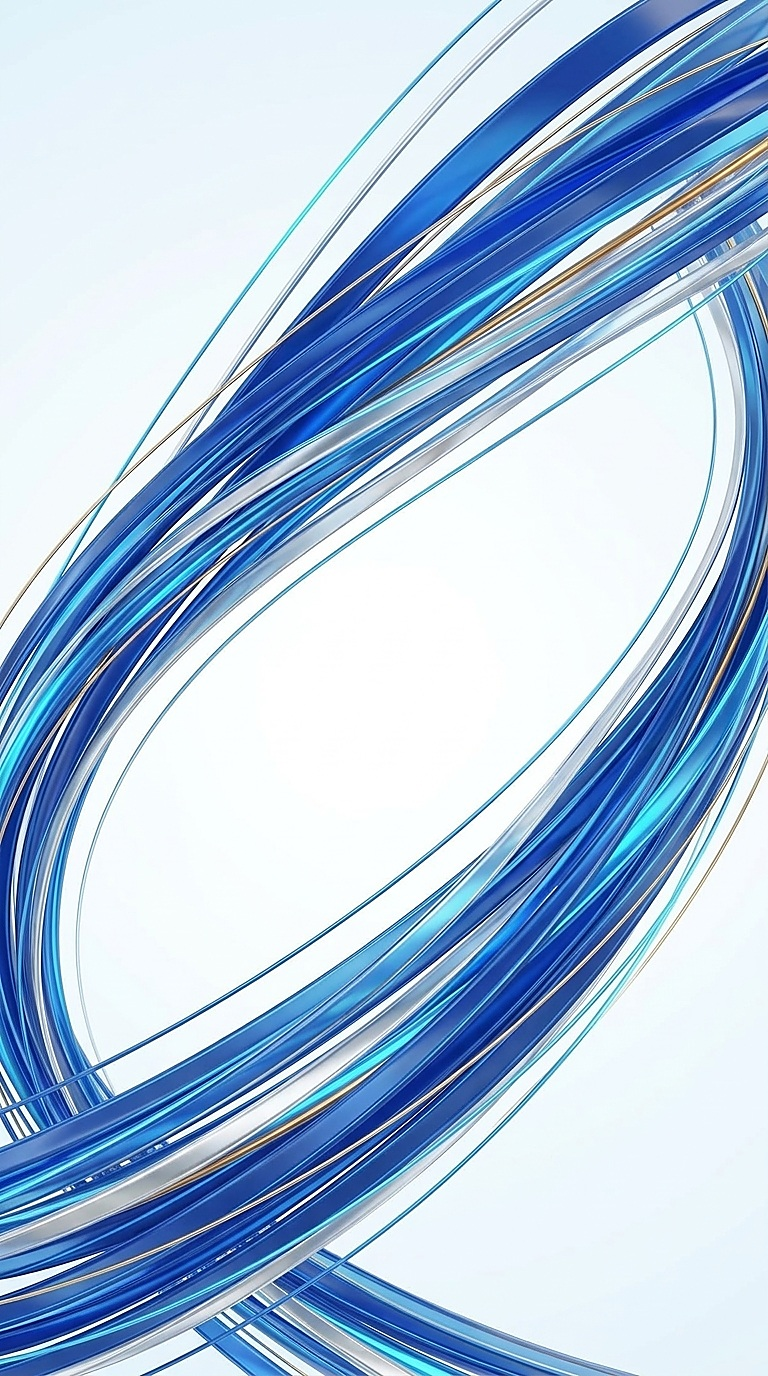
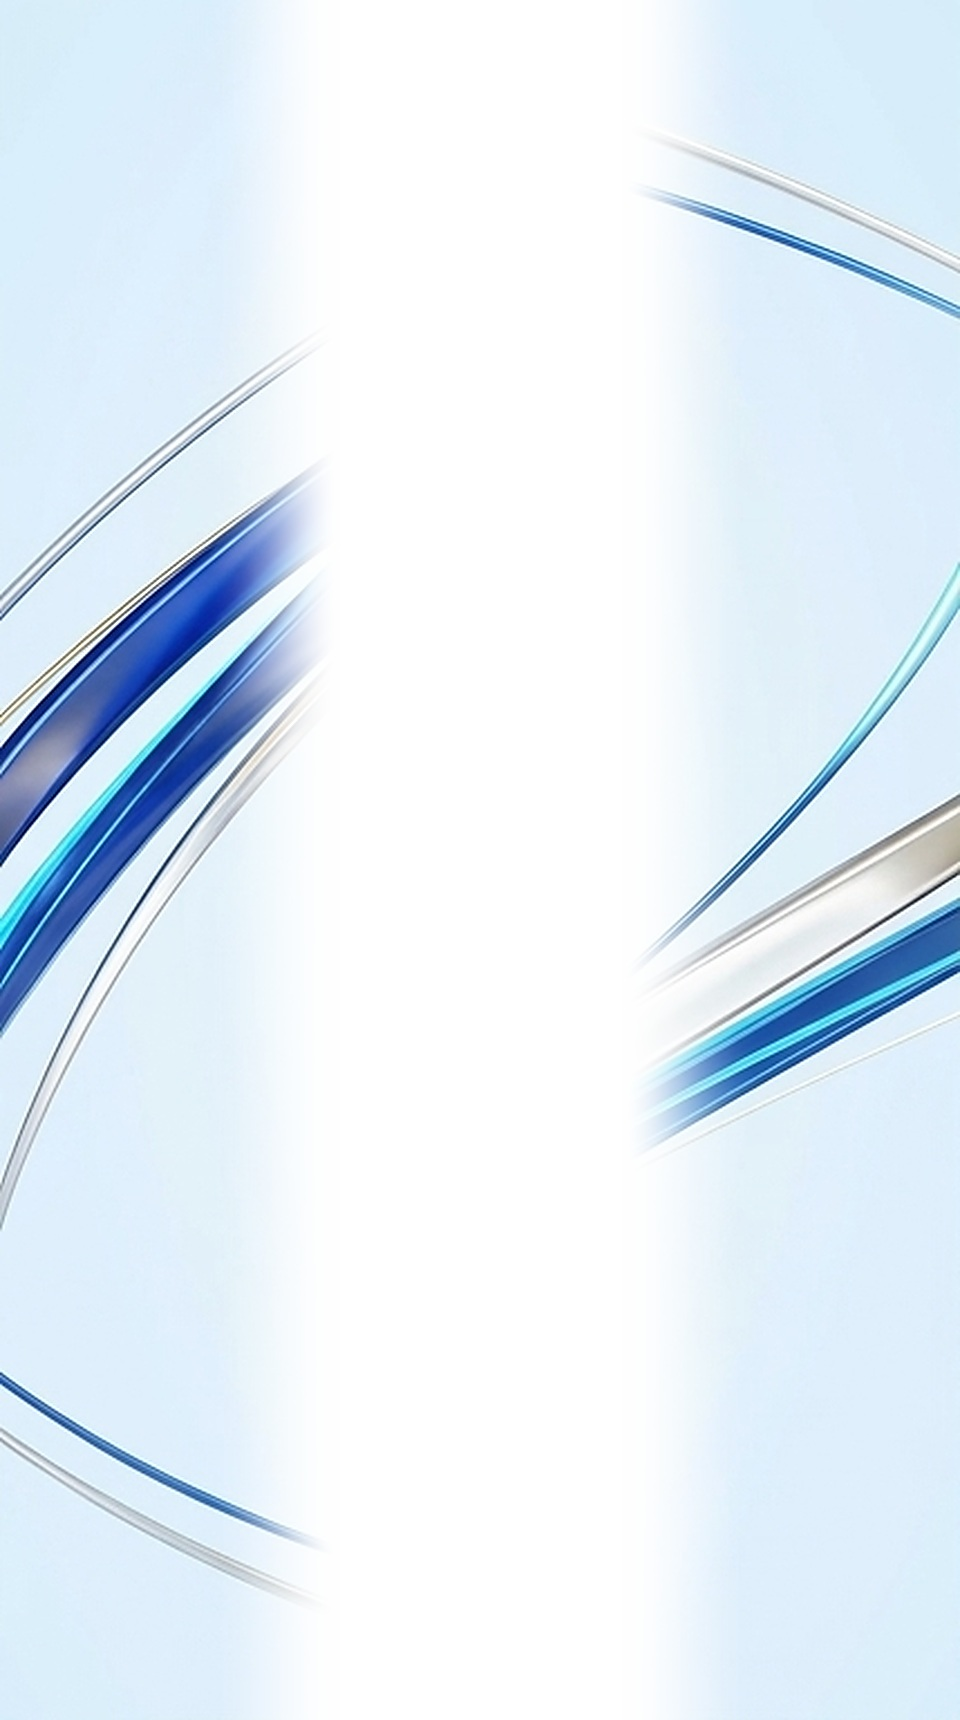
feat(bg): keep crystal ribbons strictly on sides for mobile, eliminating middle oval loop and white space

diff --git a/src/components/GraphicBackground.css b/src/components/GraphicBackground.css
@@ -25,24 +25,7 @@
   user-select: none;
 }
 
-/* 1. Precision Cyber Blueprint Grid & Coordinate Matrix */
-.bg-blueprint-grid {
-  position: absolute;
-  inset: 0;
-  width: 100%;
-  height: 100%;
-  pointer-events: none;
-  background-image: 
-    radial-gradient(circle at center, rgba(0, 87, 217, 0.08) 1.2px, transparent 1.2px),
-    linear-gradient(to right, rgba(0, 87, 217, 0.02) 1px, transparent 1px),
-    linear-gradient(to bottom, rgba(0, 87, 217, 0.02) 1px, transparent 1px);
-  background-size: 48px 48px, 48px 48px, 48px 48px;
-  mask-image: radial-gradient(ellipse at 50% 40%, black 45%, transparent 88%);
-  -webkit-mask-image: radial-gradient(ellipse at 50% 40%, black 45%, transparent 88%);
-  opacity: 0.9;
-}
-
-/* 2. Dynamic Moving Ambient Aurora Light Pools */
+/* 1. Dynamic Moving Ambient Aurora Light Pools (Corner Framing) */
 .bg-motion-aurora {
   position: absolute;
   border-radius: 50%;
@@ -92,30 +75,7 @@
   100% { transform: translate3d(5vw, -3vh, 0) scale(0.92); }
 }
 
-@keyframes auroraFlowCenter {
-  0% { transform: translate3d(0, 0, 0) scale(1); }
-  50% { transform: translate3d(5vw, -4vh, 0) scale(1.15); }
-  100% { transform: translate3d(-4vw, 3vh, 0) scale(0.92); }
-}
-
-/* 3. Interactive Volumetric Cursor Glow Spotlight */
-.bg-interactive-spotlight {
-  position: absolute;
-  top: 0;
-  left: 0;
-  width: 720px;
-  height: 720px;
-  border-radius: 50%;
-  background: radial-gradient(circle, rgba(0, 140, 255, 0.11) 0%, rgba(0, 87, 217, 0.035) 45%, transparent 70%);
-  transform: translate3d(calc(var(--spot-x, 50vw) - 360px), calc(var(--spot-y, 35vh) - 360px), 0);
-  pointer-events: none;
-  filter: blur(40px);
-  will-change: transform;
-  opacity: 0.95;
-  transition: opacity 0.3s ease;
-}
-
-/* 4. Elegant Geometric Aerospace Orbital Rings */
+/* 2. Elegant Geometric Aerospace Orbital Rings strictly on corner sides */
 .bg-orbital-ring {
   position: absolute;
   border-radius: 50%;
@@ -261,11 +221,6 @@
    8. MOBILE RESPONSIVE OPTIMIZATIONS — NEAR & PROMINENT VISIBILITY
    ============================================================ */
 @media (max-width: 768px) {
-  .bg-blueprint-grid {
-    background-size: 36px 36px, 36px 36px, 36px 36px;
-    opacity: 0.75;
-  }
-
   .bg-motion-aurora-top {
     top: -10%;
     left: -20%;
@@ -282,20 +237,6 @@
     height: 60vh;
     filter: blur(50px);
     opacity: 0.95;
-  }
-
-  .bg-motion-aurora-center {
-    top: 20%;
-    left: 10%;
-    width: 80vw;
-    height: 40vh;
-    filter: blur(60px);
-  }
-
-  .bg-interactive-spotlight {
-    width: 440px;
-    height: 440px;
-    transform: translate3d(calc(var(--spot-x, 50vw) - 220px), calc(var(--spot-y, 35vh) - 220px), 0);
   }
 
   .bg-orbital-ring-1 {
@@ -319,9 +260,9 @@
   }
 
   .graphic-background-art {
-    object-position: center 22%;
+    object-position: center center;
     opacity: 1;
-    filter: contrast(1.12) saturate(1.24) brightness(1.03);
+    filter: contrast(1.10) saturate(1.20) brightness(1.02);
     animation: cinematicRibbonDriftMobile 16s ease-in-out infinite alternate;
   }
 
@@ -347,8 +288,8 @@
 
 @media (max-width: 480px) {
   .graphic-background-art {
-    object-position: center 18%;
-    filter: contrast(1.14) saturate(1.28) brightness(1.03);
+    object-position: center center;
+    filter: contrast(1.12) saturate(1.22) brightness(1.02);
   }
 
   .bg-motion-aurora-top {

diff --git a/src/components/GraphicBackground.jsx b/src/components/GraphicBackground.jsx
@@ -85,22 +85,15 @@ export default function GraphicBackground() {
 
   return (
     <div ref={wrapperRef} className="graphic-background-wrapper" aria-hidden="true">
-      {/* 1. Precision Cyber Blueprint Grid & Architectural Coordinate System */}
-      <div className="bg-blueprint-grid" />
-
-      {/* 2. Dynamic Flowing Aurora Light Pools (Continuous Ambient Motion) */}
+      {/* 1. Side Aurora Light Pools framing corners */}
       <div className="bg-motion-aurora bg-motion-aurora-top" />
       <div className="bg-motion-aurora bg-motion-aurora-bottom" />
-      <div className="bg-motion-aurora bg-motion-aurora-center" />
 
-      {/* 3. Interactive Volumetric Cursor Glow Spotlight */}
-      <div className="bg-interactive-spotlight" />
-
-      {/* 4. Elegant Geometric Aerospace Orbital Rings */}
+      {/* 2. Geometric Aerospace Orbital Rings strictly framing side corners */}
       <div className="bg-orbital-ring bg-orbital-ring-1" />
       <div className="bg-orbital-ring bg-orbital-ring-2" />
 
-      {/* 5. Fluid Moving Aerospace Background Artwork with Parallax Inertia */}
+      {/* 3. Fluid Moving Side Crystal Ribbons with Parallax Inertia (Clean Empty Center) */}
       <div ref={moverRef} className="graphic-background-mover">
         <picture className="graphic-background-picture">
           <source media="(max-width: 768px)" srcSet={bgArtworkMobile} />
@@ -113,7 +106,7 @@ export default function GraphicBackground() {
           />
         </picture>
 
-        {/* 6. Traveling Photonic Sheen Beam (Glistening Light Sweep Across Ribbons) */}
+        {/* 4. Traveling Photonic Sheen Beam Across Side Ribbons */}
         <div className="graphic-background-sheen" />
       </div>
     </div>

diff --git a/vite.config.js b/vite.config.js
@@ -4,4 +4,8 @@ import { defineConfig } from 'vite'
 // https://vite.dev/config/
 export default defineConfig({
   plugins: [react()],
+  server: {
+    host: '127.0.0.1',
+    port: 5173,
+  },
 })
